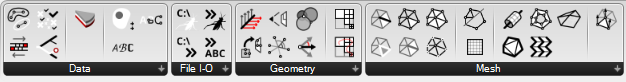
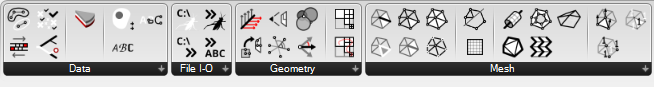
2 components added
Mesh values:
. per-vertex to per-face
. per-face to per-vertex

diff --git a/README.md b/README.md
@@ -21,8 +21,7 @@ On the other hand, if you have any ideas on how to improve things, please let us
 copy the **froGH** folder in your User Object folder, new items will appear in the **froGH** tab.
 
 #### Known Bugs
-*"wrong" component display*  
-*This shouldn't happen anymore, yet... if some component displays as diagonal stripes with a triangular icon right click over the icon and select "Internalize" - these components work anyway but at least you will see input and output parameters' names.*  
+None so far
   
 #### Implementations
 . Example files  
